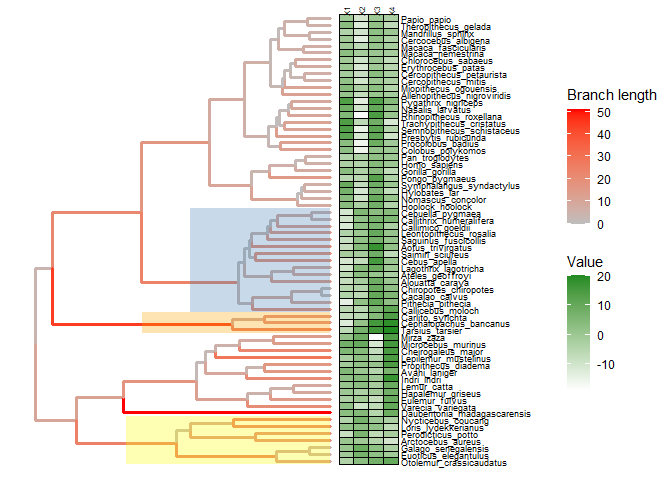
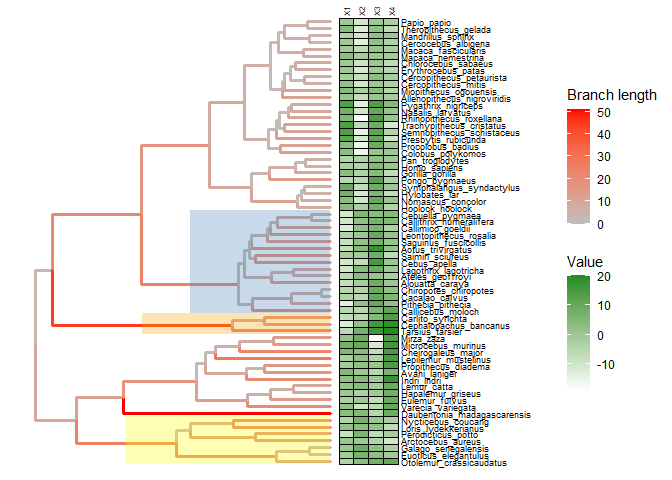
Add files via upload

diff --git a/Tutorial_1/Tut1_phylogenies.md b/Tutorial_1/Tut1_phylogenies.md
@@ -361,6 +361,9 @@ generated continuous data for four variables (X1 to X4).
 traits.bin = read.csv("https://raw.githubusercontent.com/CJMvS/CBC_Tutorials/master/Tutorial_1/primates_binary_traits.csv", row.names = 1) # row.names = 1 makes sure that the first column is read in as row names, not as a data column
 traits.cont = read.csv("https://raw.githubusercontent.com/CJMvS/CBC_Tutorials/master/Tutorial_1/primate_continuous.csv", row.names = 1)
 
+# if you want to change column names from X's to something else, you can use this code:
+colnames(traits.bin) = c("A","B","C","D", "E", "F")
+
 # regenerate the phylogeny, but remove the clade labels to make it less cluttered
 prim5 = prim.tree %>% ggtree(., aes(color=branch.length), layout = "rectangular", lwd=1.2) + xlim(0, 120) + 
 # the tiplabels are offset here to make space for the additional trait data
@@ -371,7 +374,7 @@ prim5 = prim.tree %>% ggtree(., aes(color=branch.length), layout = "rectangular"
 scale_color_continuous(low='grey', high='red', name="Branch length")
   
 # add heatmap for the binary values
-binary_phylo =  gheatmap(prim5, traits.bin, offset=0.2, width=0.2, colnames_position = "top", colnames_angle = 90, font.size=2, color="black") + 
+binary_phylo =  gheatmap(prim5, traits.bin, offset=0.2, width=0.2, colnames_position = "top", colnames_angle = 90, font.size=2, color="black", colnames_offset_y = 0.5) + 
   scale_fill_manual(values=c("white", "forestgreen"))
 ```
 
@@ -386,7 +389,7 @@ plot(binary_phylo)
 
 ``` r
 # add heatmap for continuous values
-cont_phylo = gheatmap(prim5, traits.cont, offset=0.2, width=0.2, low="white", high="forestgreen", 
+cont_phylo = gheatmap(prim5, traits.cont, offset=0.2, width=0.2, low="white", high="forestgreen", colnames_offset_y = 0.5,
               colnames_position = "top", colnames_angle = 90, font.size=2, color="black", legend_title = "Value") 
 
 plot(cont_phylo)
